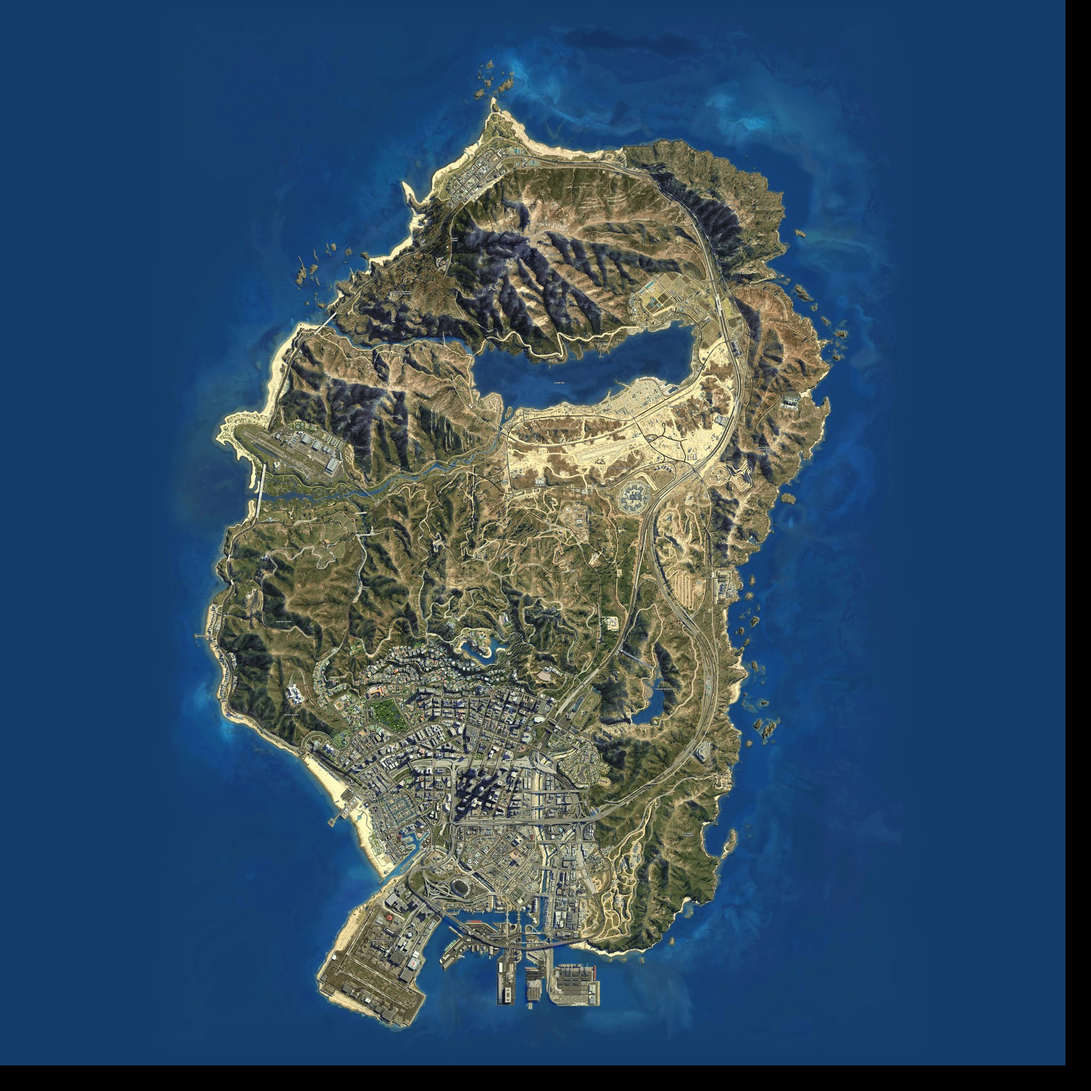
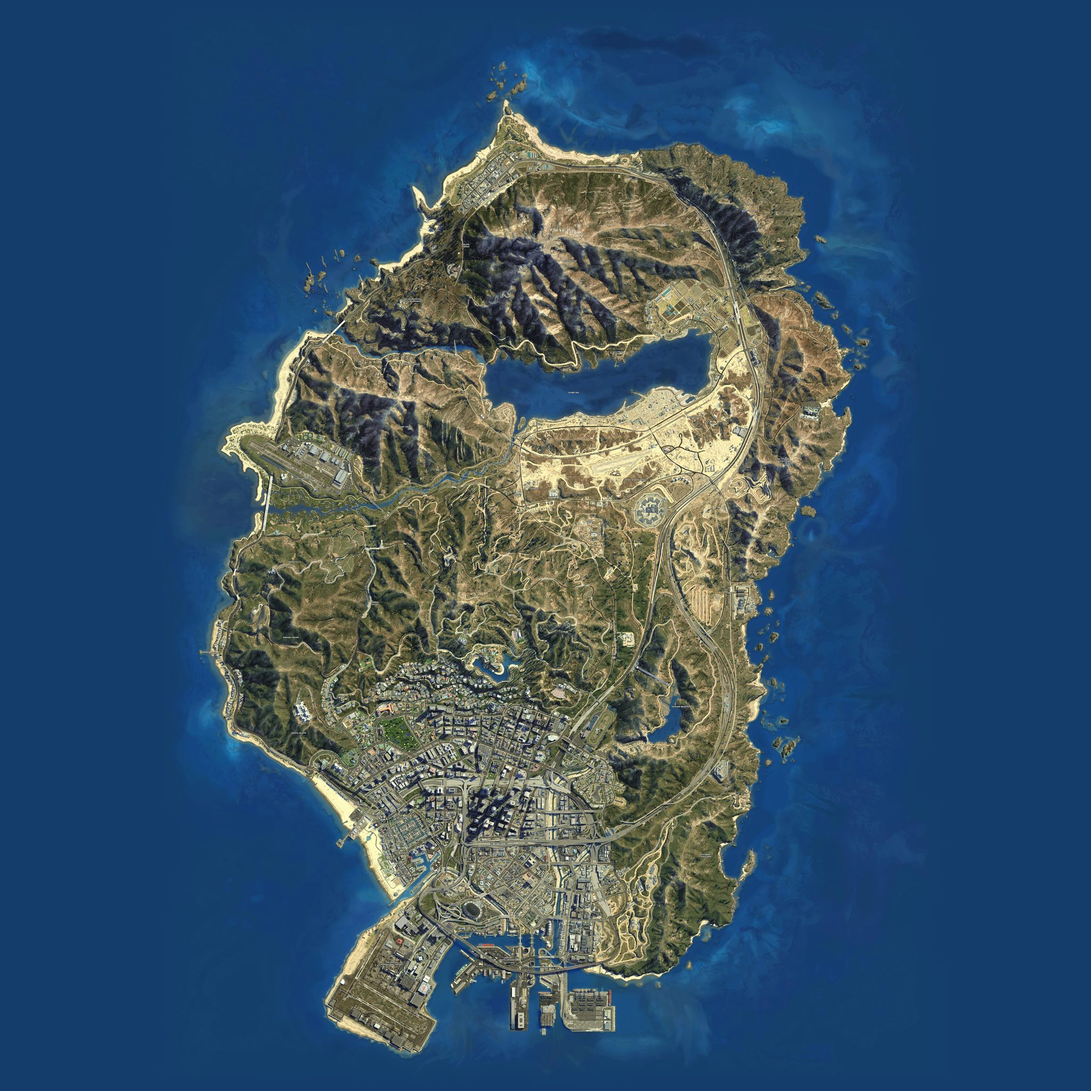
Carte d'apparition : suppression des barres noires (image recadrée, bornes recalées, bords adoucis)
Claude-Session: https://claude.ai/code/session_01T3Qi8D5NidPuELfjgkR2RY

diff --git a/resources/[script]/pickax_creator/html/style.css b/resources/[script]/pickax_creator/html/style.css
@@ -146,3 +146,5 @@ input[type=range] { height: 4px; }
 .tone-name { margin-top: 10px; font-size: 12px; color: #a1a1aa; text-align: center; font-weight: 500; }
 .face-big.on .im, .hero.on i { background: #202025; color: var(--pk-accent,#fdc27d); }
 .face-big.on .im { border-color: var(--pk-accent,#fdc27d); box-shadow: inset 4px 0 0 var(--pk-accent,#fdc27d); } .face-big.on span { color: #fff; }
+.mapimg { -webkit-mask-image: linear-gradient(to right, transparent, #000 4%, #000 96%, transparent), linear-gradient(to bottom, transparent, #000 4%, #000 96%, transparent); -webkit-mask-composite: source-in; mask-image: linear-gradient(to right, transparent, #000 4%, #000 96%, transparent), linear-gradient(to bottom, transparent, #000 4%, #000 96%, transparent); mask-composite: intersect; }
+.mapwrap { background: #0c3a6e; }
